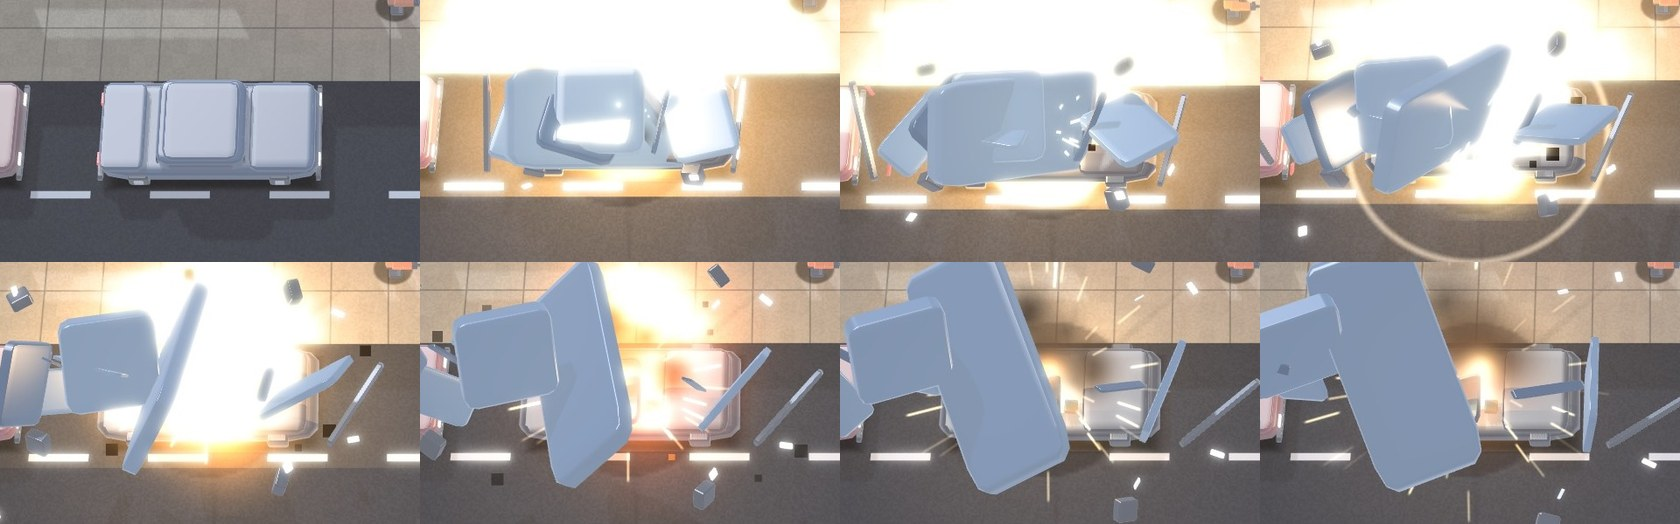
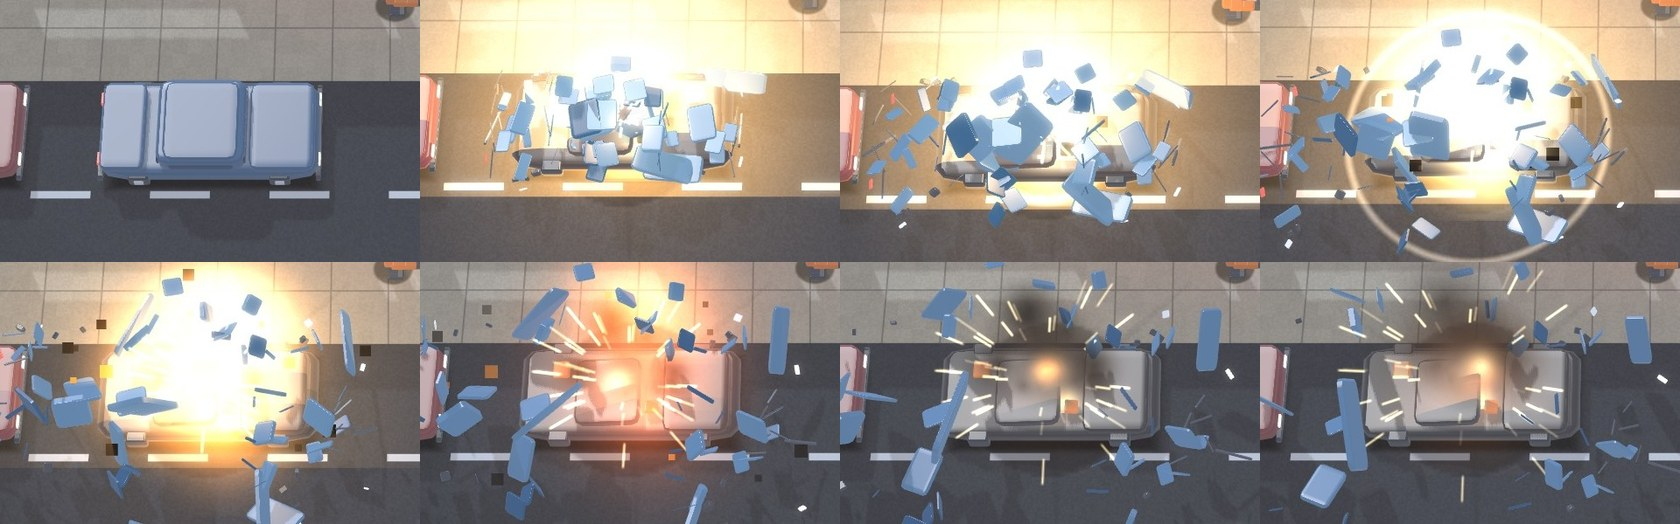
Klötzchen-Studie: Start-Test (VIEW3D_API), kleinere Explosionsteile, satte Farben, weniger Bloom, Alarmstrahlen, Vergleichsbild
Closes #196

Claude-Session: https://claude.ai/code/session_01M9qApZR3kqZkpxnguBE5gK

diff --git a/js/view3d-kloetzchen.js b/js/view3d-kloetzchen.js
@@ -12,14 +12,16 @@ export const KCFG = {
   // steifes Laufen: Laufphase in so viele Stufen je Umlauf eingerastet (Stop-Motion), Beinschwung und Armschwung
   step: 6, run: .78, swing: .7, tilt: .12,
   // Plastik: Glanzexponent, Staerke des Glanzlichts, Umgebung (Himmel in der Spiegelung), Rand (Fresnel)
-  plastic: [46, .85, .16, .55],
+  plastic: [46, .7, .04, .16],
+  // satte Spielzeugfarben: Saettigung und Figurengroesse (die Studie darf die Figuren etwas groesser zeigen als das Standard-3D)
+  sat: 1.4, size: 1.22,
   // Teile je Qualitaetsstufe (Grafik niedrig, mittel, hoch): Obergrenze fliegender Teile, Funken, Rauchpuffer, Bloom
   q: { debris: [160, 320, 560], sparks: [60, 120, 220], smoke: [24, 48, 80], bloom: [0, 1, 1], studs: [0, 1, 1] },
   // Zerfall: Schwerkraft (Weltpixel je s^2), Rueckprall, Reibung am Boden, Liegezeit der Teile, Dauer des Verschwindens
   deb: { g: 520, bounce: .38, fric: .62, rest: [5.5, 8.5], fade: .8, burstV: [70, 190], up: [140, 300], spin: 9, biasK: 70, casing: 2.4 },
   burst: ['cop', 'swat', 'grd', 'shield', 'sniper'],
   // Bloom: Schwelle (Helligkeit der sRGB-Werte), Staerke der beiden Stufen (halbe und viertel Aufloesung), Zuwachs durch Lichtblitze
-  bloom: { thr: .86, knee: .12, s: [.42, .55], flash: 1.0 },
+  bloom: { thr: .9, knee: .1, s: [.26, .34], flash: .45 },
   // Noppenraster (Weltpixel) der Bauplatte und der Wandkanten
   stud: 16, studH: 2.4, studR: 4.4, wall: 64,
   // Moebel als Bausteine: Zeichen im Raster -> Farbe, Noppen, Zusatz (Masse und Hoehe nimmt die Tabelle V3CFG.cells)
@@ -39,7 +41,8 @@ export function mkKlotz(E) {
   const K = { on: false, stil: 0, dead: false };
   const q = () => Math.max(0, Math.min(2, X.gfx | 0));
   const lod = () => X.lod | 0;
-  const colOf = E.colOf, rnd = (() => { let s = 196; return () => { s = (s * 1664525 + 1013904223) >>> 0; return s / 4294967296 } })();
+  const satC = new Map(), colOf = h => { let c = satC.get(h); if (!c) { c = E.colOf(h).clone(); const o = {}; c.getHSL(o); c.setHSL(o.h, Math.min(1, o.s * KC.sat), o.l); satC.set(h, c) } return c };
+  const rnd = (() => { let s = 196; return () => { s = (s * 1664525 + 1013904223) >>> 0; return s / 4294967296 } })();
   const rr = (a, b) => a + (b - a) * rnd();
 
   // ---------- Geometrie: Quader mit Fase (Einheitswuerfel), Noppe, Zylinder ----------
@@ -127,7 +130,7 @@ void main() {
 
   // ---------- Figur ----------
   function fig(o, e, col0) {
-    const T0 = typeOf(o, e), OT = FG.out[T0], k = 1 + ((e.r || 9) - 9) * FG.size, lying = !!(e.lie || o.lie), kneel = !lying && o.col === 8, run = !lying && !kneel && o.col < 6;
+    const T0 = typeOf(o, e), OT = FG.out[T0], k = (1 + ((e.r || 9) - 9) * FG.size) * KC.size, lying = !!(e.lie || o.lie), kneel = !lying && o.col === 8, run = !lying && !kneel && o.col < 6;
     const pw = Math.PI * 2 / KC.step, qw = run ? Math.round((o.w || 0) / pw) * pw : 0, sw = run ? Math.sin(qw) : 0, stepOdd = run ? (Math.round((o.w || 0) / pw) & 1) : 0;
     const gun = !lying && !kneel && o.ar && T0 !== 'sniper', rifle = !lying && !kneel && o.rf, shield = !lying && !kneel && o.sh >= 0, side = [1, -1];
     const top = colOf(OT.top), bot = colOf(OT.bot), skin = colOf(FG.skin), glv = colOf(OT.gl || FG.skin), hat = colOf(OT.hat || OT.bot), dark = colOf(FG.dark), eye = colOf(FG.eye), gunC = colOf(FG.gun), boot = colOf(FG.boot);
@@ -190,7 +193,7 @@ void main() {
 
   // ---------- Fahrzeug aus Bausteinen (Vorwaerts +x, oben +y, rechts +z) ----------
   const carLook = (o, e) => {
-    const rowC = E.carCol[o.row] || E.carCol[0], pol = o.k === 'pol' || (o.k === 'vh' && e.bar);
+    const rowC = (() => { const c = (E.carCol[o.row] || E.carCol[0]).clone(), h = {}; c.getHSL(h); return c.setHSL(h.h, Math.min(1, h.s * KC.sat), h.l) })(), pol = o.k === 'pol' || (o.k === 'vh' && e.bar);
     return { pol, body: pol ? colOf(KC.car.pol[0]) : rowC.clone().multiplyScalar(1.05), roof: pol ? colOf(KC.car.pol[1]) : rowC.clone().multiplyScalar(1.15) };
   };
   let carBlink = 0;
@@ -238,7 +241,9 @@ void main() {
   const topH = (x, y) => { const c = E.cellAt(Math.floor(x / T), Math.floor(y / T)), e = C.cells[c]; if (!e || (e.open && X.vaultOpen)) return 0; let h = 0; for (const s of e.s) if (s[0] === 0) h = Math.max(h, s[1]); return h };
   const capD = () => KC.q.debris[q()] >> (lod() >= 3 ? 1 : 0);
   function spawnDeb(parts, cx, cy, o) {
+    parts = parts.slice();
     const B = KC.deb, me = X.me;
+    if (o.split) { const more = []; for (const p of parts) { const big = Math.max(...p.s); if (big < 9) continue; const n = big > 40 ? 6 : big > 20 ? 4 : 2; p.s = p.s.map(v => v * .5); for (let i = 0; i < n; i++) more.push({ m: p.m.clone().multiply(new THREE.Matrix4().makeTranslation(rr(-.5, .5), rr(-.5, .5), rr(-.5, .5))), c: p.c, e: p.e, s: p.s.map(v => v * rr(.45, .8)) }) } parts = parts.concat(more) }
     for (const p of parts) {
       p.m.decompose(tp, tq, ts); const kx = tp.x - cx, kz = tp.z - cy, l = Math.hypot(kx, kz) || 1, v = rr(B.burstV[0], B.burstV[1]) * (o.k || 1);
       let bx = kx / l, bz = kz / l; if (o.dir) { bx = bx * .6 + o.dir[0] * .8; bz = bz * .6 + o.dir[1] * .8 }
@@ -257,7 +262,7 @@ void main() {
   }
   function burstCar(o, e, look) {
     out = []; carBlink = 0; car(Object.assign({}, o, { k: look.k || 'civ', bl: 0 }), e, look); const parts = out; out = null;
-    spawnDeb(parts, o.x, o.y, { k: 1.2, up: .85, em: .55, dir: null }); sparkAt(o.x, o.y, 16, 44, 240, 1); smokeAt(o.x, o.y, 12, 9, 1.8); flashes.push({ x: o.x, y: o.y, t: 0, k: 1.4 });
+    spawnDeb(parts, o.x, o.y, { k: 1.7, up: .75, em: .55, dir: null, split: 1, scale: .8 }); sparkAt(o.x, o.y, 16, 44, 200, 1); smokeAt(o.x, o.y, 12, 9, 1.8); flashes.push({ x: o.x, y: o.y, t: 0, k: .8 });
   }
   let carsNow = []; const seenKey = new Set(); let primed = false, lastT = null, prevCars = [], shotT = new Map(), alarmPh = 0, flashK = 0;
   K.reset = () => { seenKey.clear(); primed = false; deb.length = 0; sparks.length = 0; puffs.length = 0; flashes.length = 0; lastT = null; prevCars = []; shotT.clear() };
@@ -301,7 +306,7 @@ void main() {
   const sr = (c, a) => [c[0], c[1], c[2], a];
   K.step = (D0, FA, FN, dynL) => {
     const t = D0.t, dt = lastT == null ? 0 : Math.max(0, Math.min(.05, t - lastT)); if (lastT != null && t < lastT - 1) { K.reset(); lastT = t; return }
-    lastT = t; alarmPh += dt; carBlink += dt;
+    const dr = lastT == null ? 0 : Math.max(0, Math.min(1, t - lastT)); lastT = t; alarmPh += dr; carBlink += dr;
     for (const j of queue.splice(0)) {
       if (j.k === 'fig') burstFig(j.o, j.e);
       else if (j.k === 'car') burstCar(j.o, j.e, j.look);
@@ -325,8 +330,8 @@ void main() {
     // Funken und Rauch
     for (let i = sparks.length - 1; i >= 0; i--) { const s = sparks[i]; s.l -= dt; if (s.l <= 0) { sparks.splice(i, 1); continue } s.vh -= B.g * .8 * dt; s.x += s.vx * dt; s.y += s.vy * dt; s.h += s.vh * dt; if (s.h < 1) { s.h = 1; s.vh = Math.abs(s.vh) * .35; s.vx *= .6; s.vy *= .6 } }
     for (let i = puffs.length - 1; i >= 0; i--) { const s = puffs[i]; s.l -= dt; if (s.l <= 0) { puffs.splice(i, 1); continue } s.x += s.vx * dt; s.y += s.vy * dt; s.h += s.vh * dt; s.s += 6 * dt }
-    for (let i = flashes.length - 1; i >= 0; i--) { const f = flashes[i]; f.t += dt; if (f.t > .5) { flashes.splice(i, 1); continue } }
-    let fl = 0; for (const f of flashes) fl = Math.max(fl, f.k * (1 - f.t / .5));
+    for (let i = flashes.length - 1; i >= 0; i--) { const f = flashes[i]; f.t += dt; if (f.t > .3) { flashes.splice(i, 1); continue } }
+    let fl = 0; for (const f of flashes) fl = Math.max(fl, f.k * (1 - f.t / .3));
     flashK = Math.max(flashK * Math.pow(.02, dt), fl);
     // wegschmelzen: Teile in der Ruhe verschwinden nach life Sekunden, am Ende klein werden
     for (let i = deb.length - 1; i >= 0; i--) if (deb[i].rest && deb[i].still > deb[i].life + B.fade) deb.splice(i, 1);
@@ -343,15 +348,15 @@ void main() {
     const fp = E.fp, hc = E.hc;
     for (const s of sparks) { const a = s.l / s.m, c = s.c ? [1, .78, .34] : [1, .62, .22]; fp(FA, s.x, s.y, s.h, 1.1, 3, c, Math.min(1, a * 1.6), -s.vx * .045, -s.vy * .045, 0, -s.vh * .045) }
     for (const s of puffs) { const a = s.l / s.m; fp(FN, s.x, s.y, s.h, s.s, 0, [.2 + .1 * a, .19 + .1 * a, .19 + .08 * a], s.a * Math.min(1, a * 2.2) * .8) }
-    for (const f of flashes) { const a = 1 - f.t / .5; fp(FA, f.x, f.y, 14, 34 * f.k * (1 + f.t * 2), 0, hc(0xffb35a), .85 * a); fp(FA, f.x, f.y, 14, 12 * f.k, 0, hc(0xffffff), a) }
+    for (const f of flashes) { const a = 1 - f.t / .3; fp(FA, f.x, f.y, 14, 22 * f.k * (1 + f.t * 2), 0, hc(0xffb35a), .45 * a); fp(FA, f.x, f.y, 14, 7 * f.k, 0, hc(0xffffff), .6 * a) }
     // Leuchten der Bausteine: Haelo um Blaulicht, Heck- und Scheinwerfer, Bodenfarbe des Blaulichts, Alarmlampen
     for (const [o, e] of carsNow) {
       if (e.bar && o.bl) { const a = o.bl === 1, c1 = hc(a ? KC.car.bar[0] : KC.car.bar[1]), c2 = hc(a ? KC.car.bar[1] : KC.car.bar[0]), ca = Math.cos(o.a), sa = Math.sin(o.a), bh = (o.k === 'pol' ? 28 : 11 + (e.h - 11) * .76 + 2.4) + 2, bx = o.k === 'pol' ? -(o.L * C.carK[0]) * .03 : (o.L * C.carK[0]) / 2 - o.L * C.carK[0] * .15, wz = o.W * C.carK[1] * .22;
         for (const [sz, c] of [[-1, c1], [1, c2]]) { const lx = o.x + ca * bx - sa * sz * wz, ly = o.y + sa * bx + ca * sz * wz; fp(FA, lx, ly, bh, 13, 0, c, .72); fp(FA, lx, ly, bh, 5, 0, [1, 1, 1], .7) }
         fp(FA, o.x, o.y, .5, 92, 0, c1, .2, 0, 0, 1); fp(FA, o.x, o.y, .5, 60, 0, c2, .12, 0, 0, 1) }
     }
-    if (X.alarm && E.lamps.length) for (const l of dynL) if (l.k === 'alarm') fp(FA, l.x, l.y, 56, 16 + 24 * l.i, 0, hc(0xff2a1c), .22 + .6 * l.i);
-    for (const f of flashes) dynL.push({ k: 'boom', x: f.x, y: f.y, r: 220 * f.k, i: (1 - f.t / .5) * f.k });
+    if (X.alarm && E.lamps.length) { let n = 0; for (const l of dynL) if (l.k === 'alarm') { fp(FA, l.x, l.y, 56, 12 + 16 * l.i, 0, hc(0xff2a1c), .2 + .6 * l.i); const a = alarmPh * KC.alarm.spin + n++ * Math.PI; for (let j = 1; j <= 6; j++) fp(FA, l.x + Math.cos(a) * j * 22, l.y + Math.sin(a) * j * 22, .5, 10 + j * 6, 0, hc(0xff2a1c), .42 * l.i + .06, 0, 0, 1) } }
+    for (const f of flashes) dynL.push({ k: 'boom', x: f.x, y: f.y, r: 220 * f.k, i: (1 - f.t / .3) * f.k * .7 });
   };
 
   // ---------- Welt: Moebel als Bausteine, Noppen, Bauplatte, Fugen ----------
@@ -443,7 +448,7 @@ vec3 studC(vec3 c, vec2 w, inout vec3 n, float top) {
     const w = Math.max(0, Math.min(2, X.kstil | 0)); K.on = w > 0 && !K.dead; K.stil = w;
     if (w === applied) return false; const was = applied; applied = w; K.patch(w === 2); if (was === -1 && w === 0) return false; return true;
   };
-  K.info = () => ({ stil: K.stil, on: K.on, deb: deb.length, sparks: sparks.length, puffs: puffs.length, parts: iB, bloom: K.bloom, passCalls: K.passCalls, flash: Math.round(flashK * 100) / 100, world: K.stats || null, studs: studsOn(), q: q(), cars: carsNow.length });
+  K.info = () => ({ alarmPh: Math.round(alarmPh * 100) / 100, stil: K.stil, on: K.on, deb: deb.length, sparks: sparks.length, puffs: puffs.length, parts: iB, bloom: K.bloom, passCalls: K.passCalls, flash: Math.round(flashK * 100) / 100, world: K.stats || null, studs: studsOn(), q: q(), cars: carsNow.length });
   K.debris = () => deb.map(d => [Math.round(d.x), Math.round(d.y * 10) / 10, Math.round(d.z), d.rest]);
   K.dispose = () => { for (const m of worldMeshes) { scene.remove(m); m.dispose && m.dispose() } worldMeshes = []; for (const r of [rtS, rtA, rtA2, rtB, rtB2]) r && r.dispose(); for (const m of [kMat, mBright, mBlur, mComp]) m.dispose(); boxGeo.dispose(); studGeo.dispose(); fsGeo.dispose(); K.patch(false); K.dead = true; K.on = false; };
   return K;

diff --git a/tools/bilder-kloetzchen.js b/tools/bilder-kloetzchen.js
@@ -12,7 +12,7 @@ const strip = (files, out, w) => execFileSync('python3', ['-I', '-c', 'import sy
   const env = await lib.launch({ webgl: true });
   const page = await lib.openGame(env, { still: true, gfx: process.env.GFX || 'hoch' });
   await lib.loadInpage(page, 'bild.js');
-  await page.evaluate(async (stil) => { __dbg.view3d.kstil = +stil; await __dbg.view3d.set(true); }, STIL);
+  if (STIL !== 'x') await page.evaluate(async (stil) => { __dbg.view3d.kstil = +stil; await __dbg.view3d.set(true); }, STIL);
   const prep = await page.evaluate(([sc, flow]) => {
     const D = __dbg; if (sc === 'museum') D.setLage(['nacht']);
     PX.scene(sc, 5); if (sc === 'museum') { D.setLage(['nacht']); D.buildSeed(5); D.ptClear(); }
@@ -39,6 +39,13 @@ const strip = (files, out, w) => execFileSync('python3', ['-I', '-c', 'import sy
   if (FLOW === 'ueberblick') {
     const el = await page.$('main'), bb = await el.boundingBox(); await page.evaluate(() => { __dbg.draw(); __dbg.draw() });
     const f = path.join(OUT, `${SC}-s${STIL}-ueberblick.jpg`); await page.screenshot({ path: f, type: 'jpeg', quality: 88, clip: bb }); console.log(f);
+  } else if (FLOW === 'vergleich') {
+    // gleiche Szene (Polizei-Phase), Spielkamera mit HUD, Ausschnitt um den Spieler; Stil x ist 2D
+    const pos = await page.evaluate(() => { PX.phase('polizei'); const D = __dbg; D.get().me.hp = 1e9; D.draw(); D.draw(); const m = D.get().me, c = D.cam(), V = D.view3d.V; const s = V && V.shown ? V.toScr(m.x, m.y, 20) : [m.x - c[0], m.y - c[1]]; return s });
+    const el = await page.$('main'), bb = await el.boundingBox(), f = path.join(OUT, `${SC}-${STIL === 'x' ? '2d' : 's' + STIL}-vergleich.jpg`);
+    await page.screenshot({ path: f, type: 'jpeg', quality: 90, clip: bb });
+    const w = 520, h = 330, x0 = Math.max(0, Math.min(bb.width - w, pos[0] - w / 2)), y0 = Math.max(0, Math.min(bb.height - h, pos[1] - h * .55));
+    execFileSync('python3', ['-I', '-c', 'import sys\nfrom PIL import Image\nf=sys.argv[1]; b=[float(v) for v in sys.argv[2:6]]\nim=Image.open(f).convert("RGB").crop((int(b[0]),int(b[1]),int(b[0]+b[2]),int(b[1]+b[3])))\nim.resize((im.width*2,im.height*2),Image.LANCZOS).save(f,quality=90)', f, String(x0), String(y0), String(w), String(h)]); console.log(f);
   } else if (FLOW === 'laufen') {
     await step(1, 'D.keys.d=1;D.keys.w=0'); info = await shot('f0'); for (let k = 1; k < 8; k++) { await step(3, 'D.keys.d=1'); info = await shot('f' + k) } await step(1, 'for(const k of "wasd")delete D.keys[k]');
   } else if (FLOW === 'schiessen') {

diff --git a/js/view3d.js b/js/view3d.js
@@ -521,7 +521,7 @@ void main() { vec4 c = vHAD.x > 0.5 ? texture2D(mapF, vUv) : texture2D(map, vUv)
   // Stilstudie Kloetzchen: Figuren und Fahrzeuge zeichnet K (js/view3d-kloetzchen.js), die uebrigen Gruppen bleiben leer, die Silhouetten hinter Waenden (3D-3) laufen wie vorher
   function kDyn(F, Cs, S, fk, ck) {
     for (const P of [pSh, pBox, pTop, pShld].concat(Object.values(fP))) { P.size(0); P.u = 0; P.finish() }
-    pSil.size(S.length); const sk = {}; S.forEach(([o], j) => { put(pSil, j, o.x, o.y, C.fig.hsK || 48, o.a, C.silS, 1, C.silS); pSil.a.iCell.setXYZW(j, o.col, o.row, 0, 1); const c = silOf(o.sc); pSil.a.iCol.setXYZ(j, c.r, c.g, c.b); sk[o.k] = (sk[o.k] || 0) + 1 });
+    pSil.size(S.length); const sk = {}; S.forEach(([o], j) => { put(pSil, j, o.x, o.y, C.fig.hsK || 56, o.a, C.silS, 1, C.silS); pSil.a.iCell.setXYZW(j, o.col, o.row, 0, 1); const c = silOf(o.sc); pSil.a.iCol.setXYZ(j, c.r, c.g, c.b); sk[o.k] = (sk[o.k] || 0) + 1 });
     const r = K.dyn(F, Cs, dynL);
     st.figParts = r.parts; st.figCalls = 1; st.gear = r.gear; st.fi = []; st.sil = S.length; st.sk = sk; st.figs = F.length; st.cars = Cs.length; st.fk = fk; st.ck = ck; st.lie = r.lie; st.hit = r.hit; st.xparts = 0;
     st.dynCalls = pools.filter(P => P.im && P.im.visible).length;

diff --git a/index.html b/index.html
@@ -38,7 +38,7 @@ canvas:focus-visible{border-color:var(--accent)}
 const BUILD={n:211,d:'2026-10-29'};//BUILD
 const MAPS_API=1;//Vertrag mit js/maps.js (mkMaps.api), von Hand erhoehen, wenn sich Kontext oder Rueckgabe von mkMaps aendern
 const DRAW_API=9;//Vertrag mit js/draw.js (mkDraw.api), von Hand erhoehen, wenn sich Kontext oder Rueckgabe von mkDraw aendern
-const VIEW3D_API=10,KLOTZ_API=1;//Vertrag mit js/view3d.js (mkView3d.api, ES-Modul, nur mit 3D geladen), von Hand erhoehen, wenn sich Kontext oder Rueckgabe von mkView3d aendern
+const VIEW3D_API=10;const KLOTZ_API=1;//Vertrag mit js/view3d.js (mkView3d.api, ES-Modul, nur mit 3D geladen), von Hand erhoehen, wenn sich Kontext oder Rueckgabe von mkView3d aendern
 const UI_API=13;//Vertrag mit js/ui.js (mkUI.api), von Hand erhoehen, wenn sich Kontext oder Rueckgabe von mkUI aendern
 document.getElementById('ver').textContent='Build '+BUILD.n+' · '+BUILD.d.split('-').reverse().join('.');
 /* Bildgroesse: 'auto' (Voreinstellung) passt das Bild dem Fenster an, 'fix' haelt es wie frueher bei hoechstens 1100 px (Wahl in localStorage 'holdup.view').
